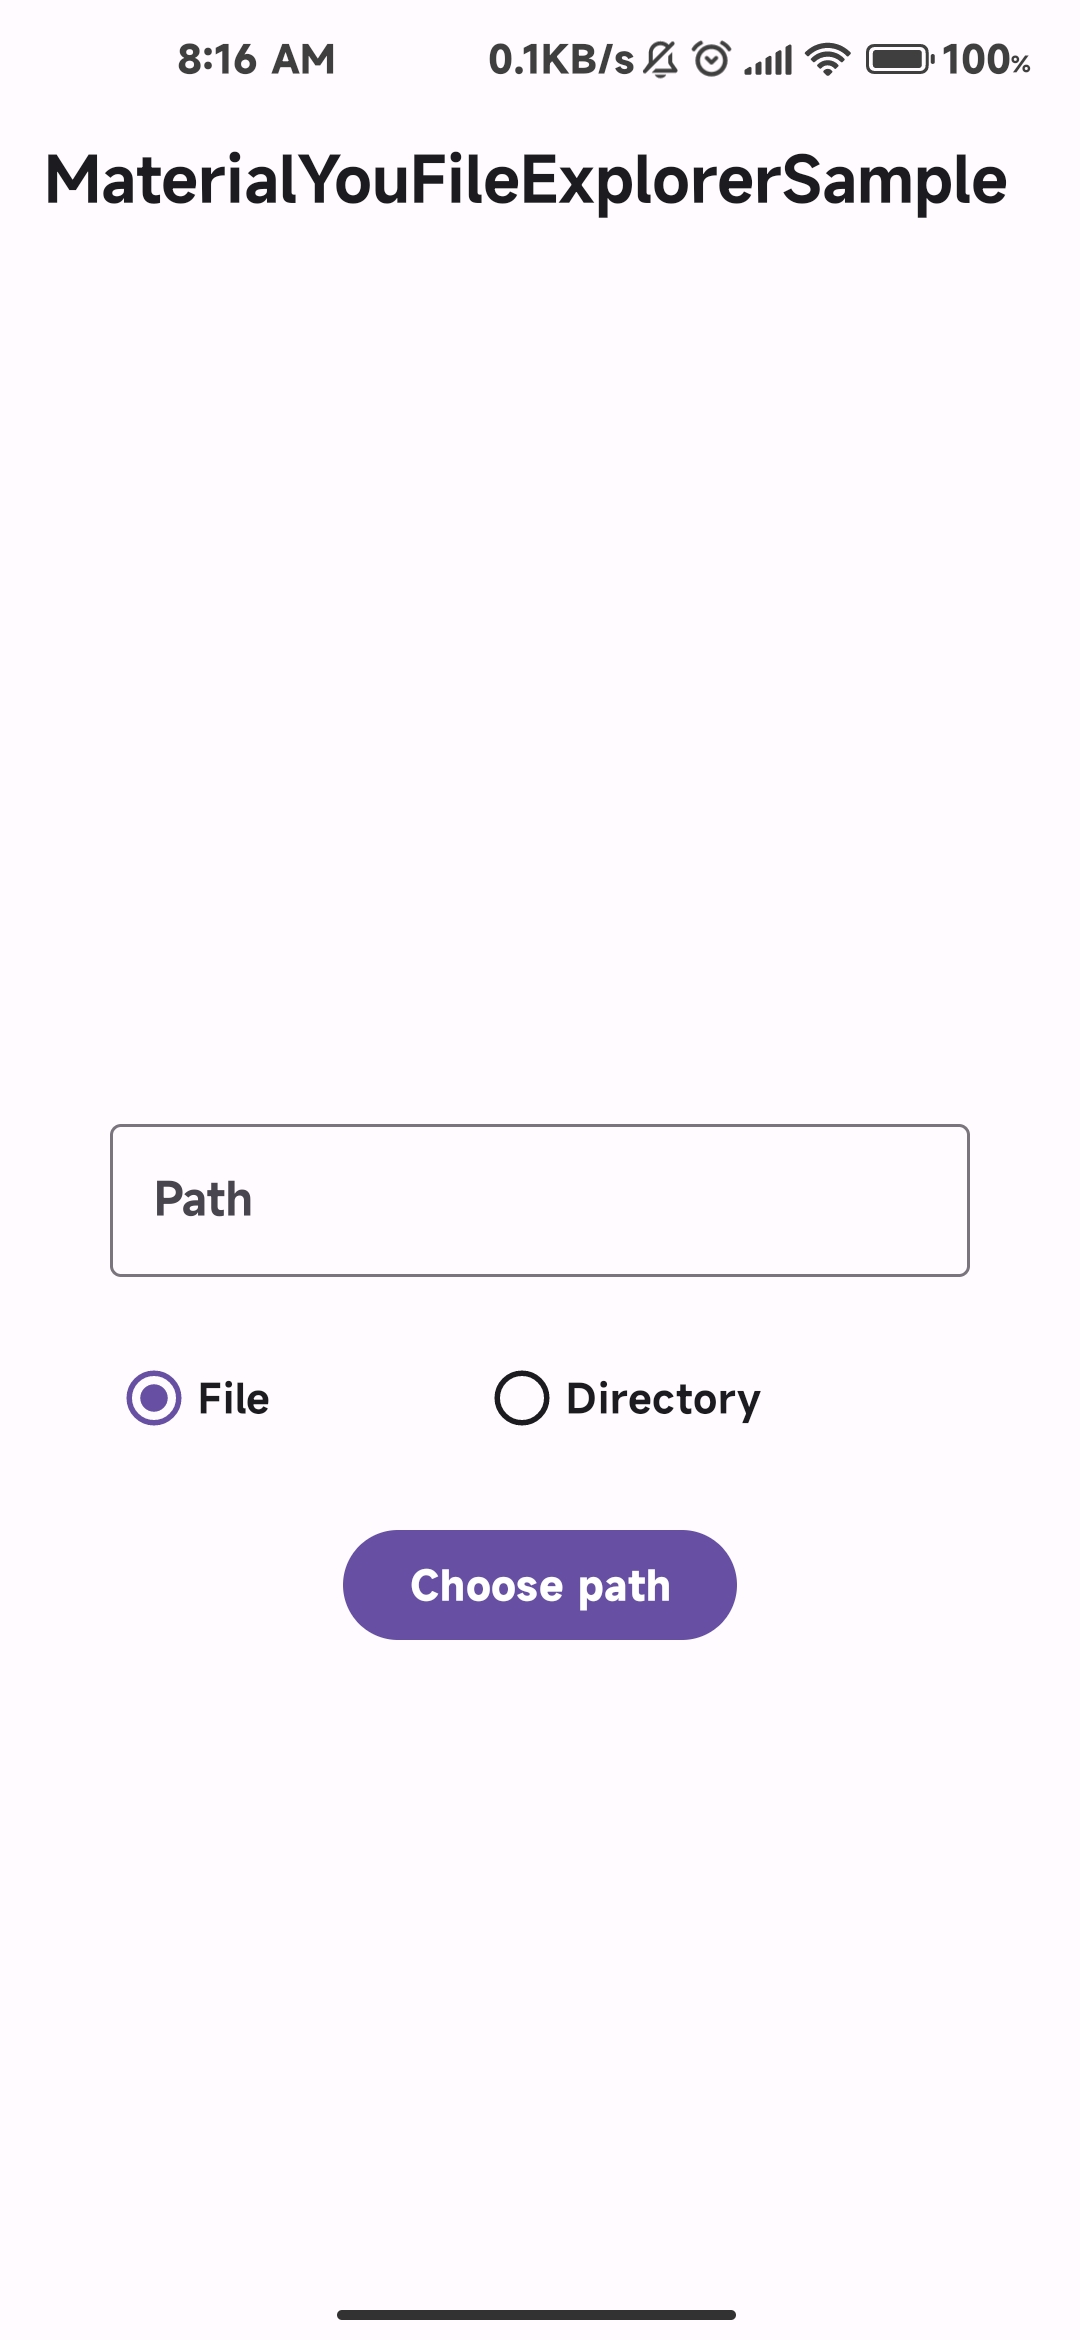
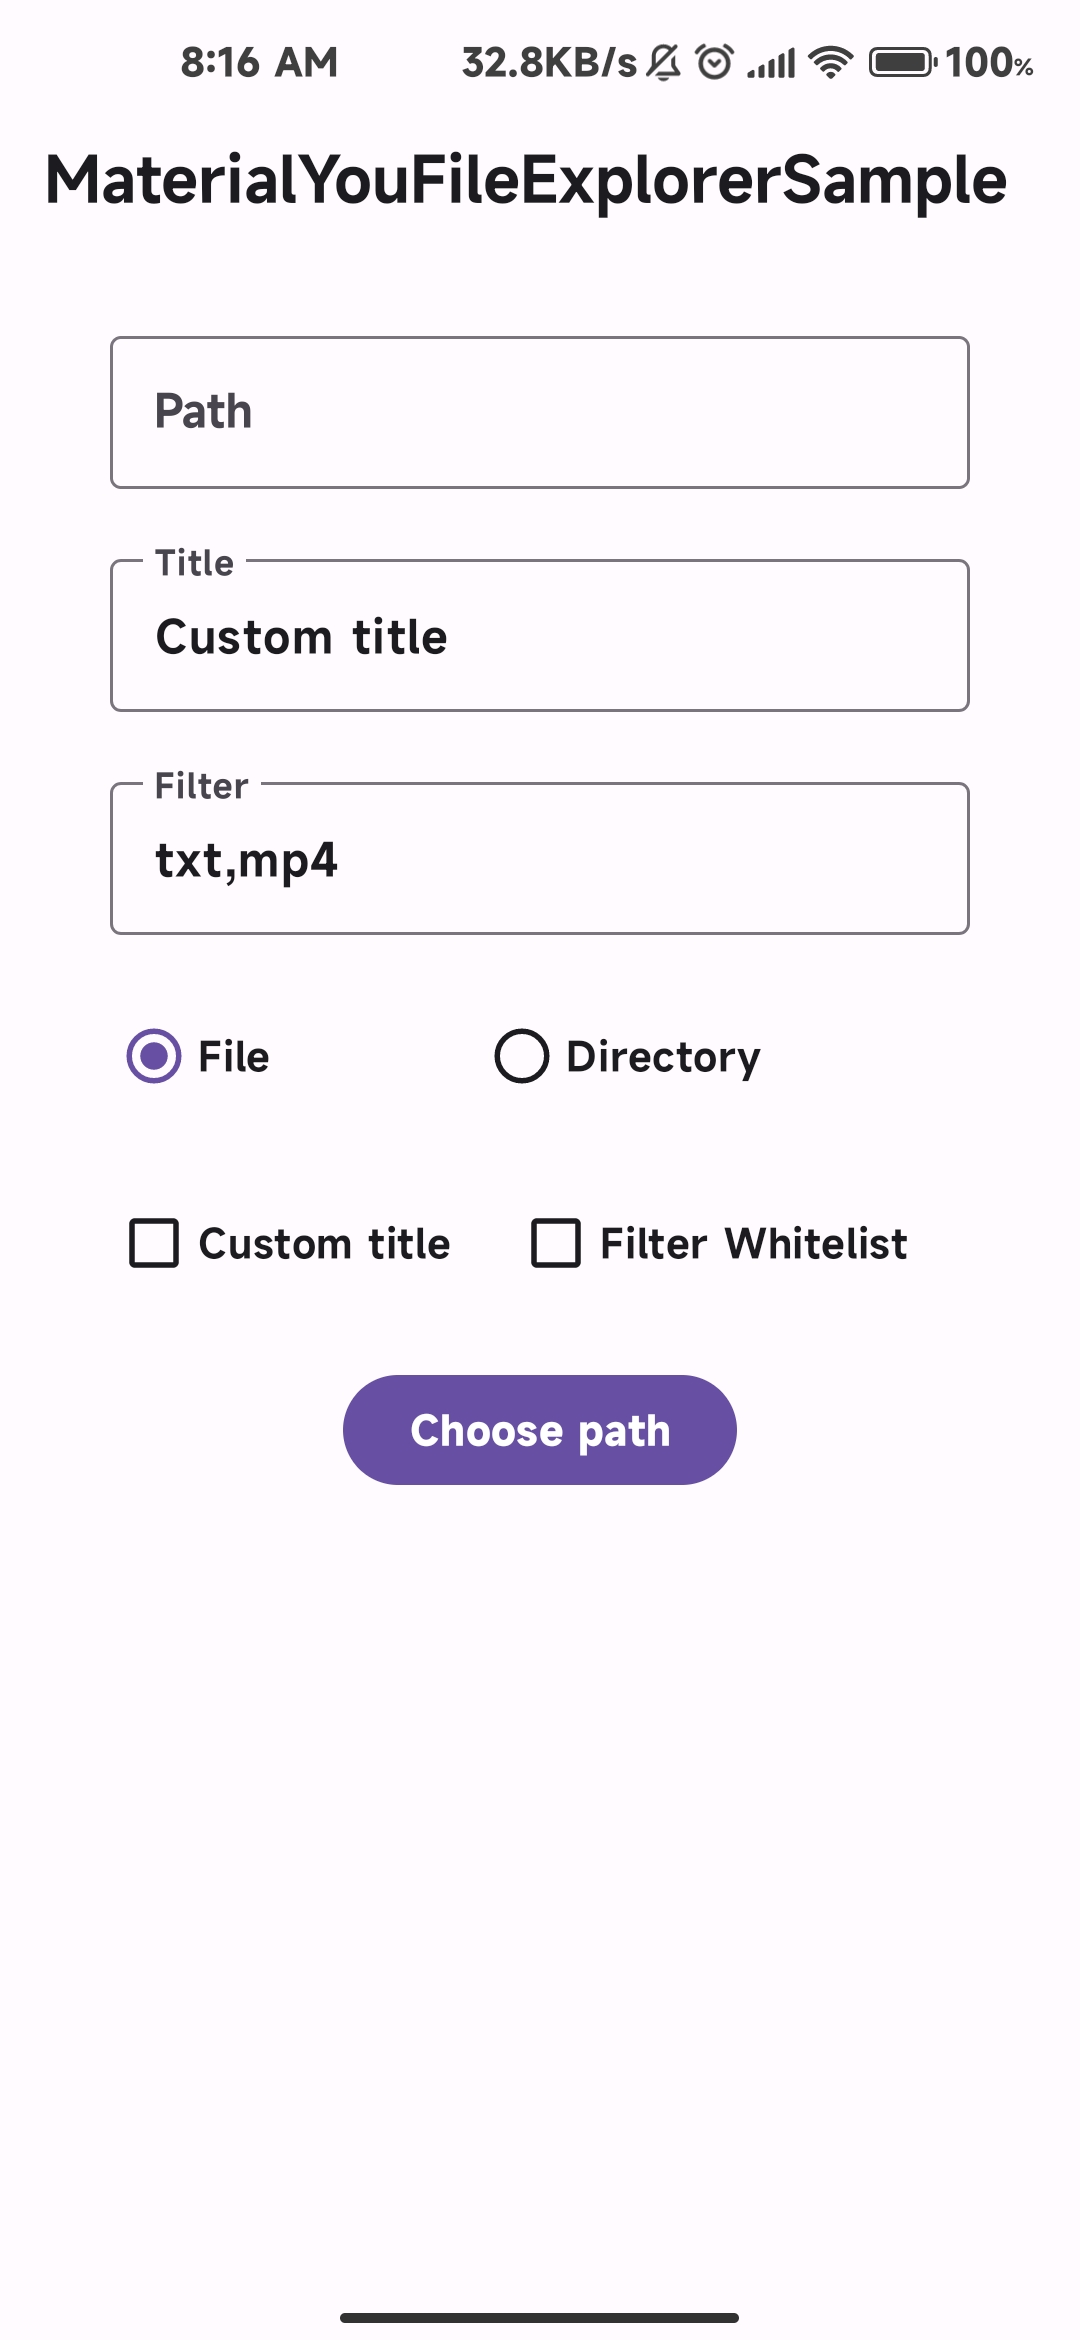
gradle(lib): Version 1.0.7
* 1. Support for removing
* 2. Support for renaming
* 3. Update sample

diff --git a/README.md b/README.md
@@ -5,9 +5,18 @@
 # MaterialYouFileExplorer
 [![GitHub release](https://img.shields.io/github/v/release/XayahSuSuSu/Android-MaterialYouFileExplorer?color=orange)](https://github.com/XayahSuSuSu/Android-MaterialYouFileExplorer/releases) [![License](https://img.shields.io/github/license/XayahSuSuSu/Android-MaterialYouFileExplorer?color=ff69b4)](./LICENSE)
 
-A file explorer with the style of Material You.
+A file explorer(picker) with the style of Material You.
 
-Use this library to select files/directories quickly.
+Use this library to pick files/directories quickly.
+
+## Features
+- Easy to import and use.
+- Highly customizable.
+- Support for both file and directory
+- Support for filtering
+- Support for managing file/directory (deleting, renaming) while picking.
+
+## Screenshots
 
 ![Sample3](doc/images/Sample1.jpg "Sample1")
 
@@ -25,7 +34,7 @@ repositories {
 ```
 2. Implementation
 ```
-implementation 'io.github.xayahsususu:materialyoufileexplorer:1.0.6'
+implementation 'io.github.xayahsususu:materialyoufileexplorer:1.0.7'
 ```
 
 ## Usage
@@ -61,7 +70,11 @@ class MainActivity : AppCompatActivity() {
 
         binding.filledButton.setOnClickListener {
             materialYouFileExplorer.toExplorer(
-                this, binding.radioButtonFile.isChecked, "Custom Title"
+                this,
+                binding.radioButtonFile.isChecked,
+                if (binding.checkBox.isChecked) binding.textInputEditTextTitle.text.toString() else "default",
+                ArrayList(binding.textInputEditTextFilter.text.toString().split(",")),
+                binding.checkBoxFilterWhitelist.isChecked
             ) { path, _ -> binding.textInputEditText.setText(path) }
         }
     }
@@ -72,3 +85,5 @@ class MainActivity : AppCompatActivity() {
 - [libsu](https://github.com/topjohnwu/libsu)
 - [PermissionX](https://github.com/guolindev/PermissionX)
 - [MaterialFiles](https://github.com/zhanghai/MaterialFiles)
+- [Coil](https://github.com/coil-kt/coil)
+- [ActivityResultLauncher](https://github.com/DylanCaiCoding/ActivityResultLauncher)

diff --git a/README_CN.md b/README_CN.md
@@ -1,9 +1,18 @@
 # MaterialYouFileExplorer
 [![GitHub release](https://img.shields.io/github/v/release/XayahSuSuSu/Android-MaterialYouFileExplorer?color=orange)](https://github.com/XayahSuSuSu/Android-MaterialYouFileExplorer/releases) [![License](https://img.shields.io/github/license/XayahSuSuSu/Android-MaterialYouFileExplorer?color=ff69b4)](./LICENSE)
 
-一个Material You风格的文件浏览器第三方库。
+一个Material You风格的文件浏览器（选择器）第三方库。
 
 使用这个第三方库来快速选择文件/文件夹。
+
+## 特点
+- 易于导入和使用。
+- 高度可自定义化
+- 支持选择文件或文件夹
+- 支持过滤
+- 支持选择文件/文件夹时管理文件/文件夹（删除、重命名）
+
+## 截图
 
 ![Sample3](doc/images/Sample1.jpg "Sample1")
 
@@ -21,7 +30,7 @@ repositories {
 ```
 2. 引入MaterialYouFileExplorer
 ```
-implementation 'io.github.xayahsususu:materialyoufileexplorer:1.0.6'
+implementation 'io.github.xayahsususu:materialyoufileexplorer:1.0.7'
 ```
 
 ## 使用
@@ -57,7 +66,11 @@ class MainActivity : AppCompatActivity() {
 
         binding.filledButton.setOnClickListener {
             materialYouFileExplorer.toExplorer(
-                this, binding.radioButtonFile.isChecked, "Custom Title"
+                this,
+                binding.radioButtonFile.isChecked,
+                if (binding.checkBox.isChecked) binding.textInputEditTextTitle.text.toString() else "default",
+                ArrayList(binding.textInputEditTextFilter.text.toString().split(",")),
+                binding.checkBoxFilterWhitelist.isChecked
             ) { path, _ -> binding.textInputEditText.setText(path) }
         }
     }
@@ -68,3 +81,5 @@ class MainActivity : AppCompatActivity() {
 - [libsu](https://github.com/topjohnwu/libsu)
 - [PermissionX](https://github.com/guolindev/PermissionX)
 - [MaterialFiles](https://github.com/zhanghai/MaterialFiles)
+- [Coil](https://github.com/coil-kt/coil)
+- [ActivityResultLauncher](https://github.com/DylanCaiCoding/ActivityResultLauncher)
